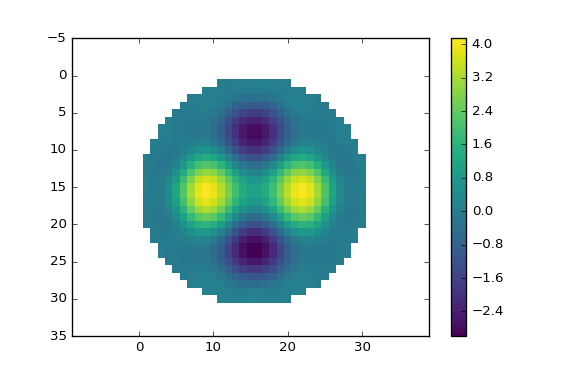
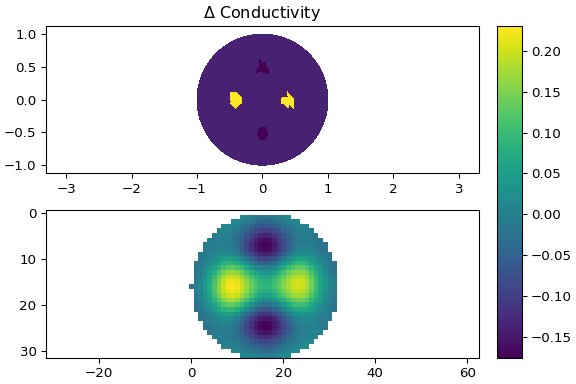
Improved colorbar and updadted example plot for greit

diff --git a/examples/eit_dynamic_greit.py b/examples/eit_dynamic_greit.py
@@ -35,11 +35,12 @@ delta_perm = np.real(mesh_new["perm"] - mesh_obj["perm"])
 
 # show alpha
 fig, axes = plt.subplots(2,1, constrained_layout=True)
+fig.set_size_inches(6, 4)
+
 ax = axes[0]
 im = ax.tripcolor(
     pts[:, 0], pts[:, 1], tri, delta_perm, shading="flat", cmap=plt.cm.viridis
 )
-fig.colorbar(im)
 ax.axis("equal")
 ax.set_xlim([-1.2, 1.2])
 ax.set_ylim([-1.2, 1.2])
@@ -74,8 +75,8 @@ plt.imshow(np.real(ds), interpolation='nearest', cmap=cmap)
 """
 ax = axes[1]
 im = ax.imshow(np.real(ds), interpolation="none", cmap=plt.cm.viridis)
-fig.colorbar(im)
 ax.axis("equal")
-# fig.set_size_inches(6, 4)
-# fig.savefig('../figs/demo_greit.png', dpi=96)
+
+fig.colorbar(im, ax=axes.ravel().tolist())
+#fig.savefig('../doc/images/demo_greit.png', dpi=96)
 plt.show()
